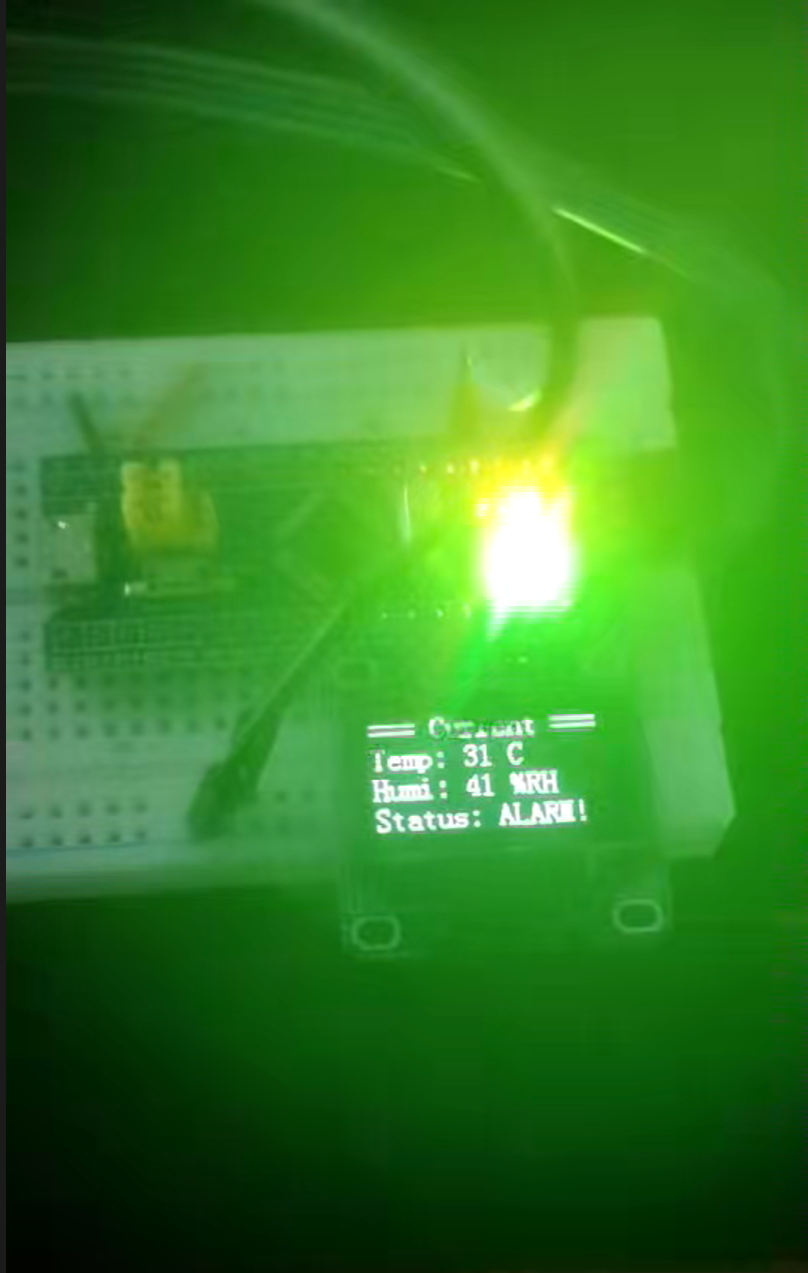
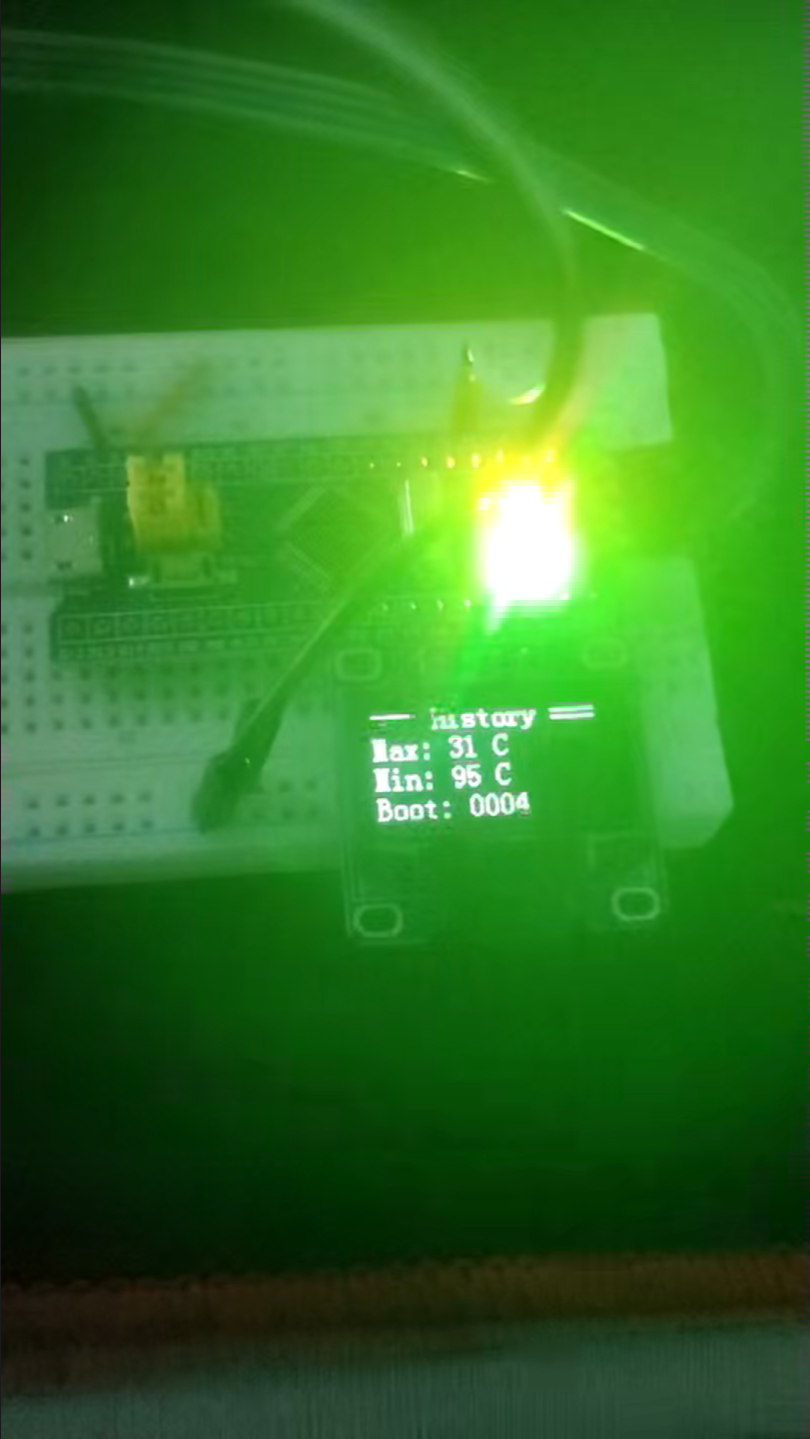
调整截图顺序，同步更新README文档

diff --git a/README.md b/README.md
@@ -1,57 +1,83 @@
-# STM32‑FreeRTOS‑Env‑Monitor
-基于STM32F103C8T6 + FreeRTOS 的嵌入式环境监控终端。
+# 基于 FreeRTOS 的微型环境监控终端
+
+[![License](https://img.shields.io/badge/License-MIT-blue.svg)](LICENSE)
+[![Platform](https://img.shields.io/badge/Platform-STM32F103C8T6-brightgreen)](https://www.st.com/)
+[![RTOS](https://img.shields.io/badge/RTOS-FreeRTOS-orange)](https://www.freertos.org/)
 
 ## 项目简介
-本项目实现DHT11温湿度采集、OLED屏幕多页面轮转显示、阈值报警、参数掉电保存功能。采用FreeRTOS多任务架构，任务之间通过消息队列传递数据，开启栈溢出检测，完成BSP驱动分层，工程目录规范化，使用Git做版本管理。
 
-## 硬件平台
-- MCU：STM32F103C8T6
-- 传感器：DHT11温湿度模块
-- 显示：0.96寸 I2C OLED（SSD1306）
-- 外设：LED报警指示灯
+本项目基于 **STM32F103C8T6** 和 **FreeRTOS**，搭建了 BSP 驱动层、RTOS 内核层和应用逻辑层的三层软件架构。实现了 DHT11 温湿度采集、OLED 三页面自动轮播 UI，并通过 **内部 Flash 模拟 EEPROM** 实现了启动计数和报警阈值的掉电非易失存储。
 
-## 运行效果
-| 历史极值页面 | 当前温湿度页面 | 系统信息页面 |
+##  硬件平台
+
+| 组件 | 型号/规格 |
+| :--- | :--- |
+| MCU | STM32F103C8T6 (Cortex-M3, 72MHz) |
+| 传感器 | DHT11 (单总线协议) |
+| 显示 | 0.96寸 OLED (I2C接口, SSD1306) |
+| 板载 LED | PC13 (低电平点亮) |
+| 调试接口 | SWD (ST-Link) |
+
+## 功能特性
+
+-  **FreeRTOS 多任务调度**：3 个独立任务（传感器采集 / OLED显示 / LED心跳），优先级分级管理
+-  **消息队列 (Queue)**：实现任务间异步数据传递，解耦生产者和消费者
+-  **内部 Flash 模拟 EEPROM**：
+  - 启动计数器（每次上电/复位自动 +1）
+  - 报警阈值断电保存（默认 30℃，可修改）
+-  **OLED 三页面自动轮播**（每 5 秒切换）：
+  - 页面0：当前温湿度 + 报警状态
+  - 页面1：历史最高/最低温度 + Boot 计数
+  - 页面2：FreeRTOS 堆剩余大小 + 当前阈值 + 页码
+-  **超阈值 LED 快闪报警**：温度 > 阈值时 LED 从 1秒慢闪 切换为 200ms 快闪
+-  **栈溢出检测**：开启 `configCHECK_FOR_STACK_OVERFLOW 2`，异常时 LED 常亮提示
+
+## 软件架构
+```text
+STM32-FreeRTOS-Env-Monitor/
+├── BSP/               # 硬件驱动层
+│   ├── bsp_oled.c/.h
+│   ├── bsp_dht11.c/.h
+│   └── bsp_flash.c/.h
+├── User/              # 应用逻辑层
+│   ├── main.c
+│   └── stm32f10x_it.c
+├── FreeRTOS/          # RTOS 内核
+│   ├── include/
+│   ├── src/
+│   ├── port/
+│   └── mem/
+└── System/            # 系统工具层
+    ├── Delay.c/.h
+    └── timer.c/.h
+```
+
+## 运行效果（实拍图）
+| 页面0（当前值） | 页面1（历史极值） | 页面2（系统信息） |
 | :---: | :---: | :---: |
-| ![历史极值](Images/page1.png) | ![当前温湿度](Images/page2.png) | ![系统信息](Images/page3.png) |
+| ![页面0](Images/page1.png) | ![页面1](Images/page2.png) | ![页面2](Images/page3.png) |
+| 实时温度/湿度 + **Status:ALARM!**<br>（展示超阈值报警功能） | 历史最高/最低温 + Boot 计数<br>（展示 Flash 保存的历史极值和开机次数） | FreeRTOS 堆大小 + 阈值 TH + 页码 3/3<br>（展示 RTOS 系统运行参数） |
+## 接线说明
 
-> 功能说明：OLED三页自动循环切换；
-> - 历史极值页：记录最大最小温度、Flash保存的设备启动次数；
-> - 当前温湿度页：实时采集DHT11数据，温度超限显示ALARM报警状态；
-> - 系统信息页：展示FreeRTOS堆内存、报警阈值、页面编号；
-> 片内Flash模拟EEPROM保存启动计数与报警阈值，超阈值触发LED快速闪烁报警。
+| 外设 | 引脚 | 说明 |
+| :--- | :--- | :--- |
+| OLED SCL | PB8 | I2C 时钟线 |
+| OLED SDA | PB9 | I2C 数据线 |
+| DHT11 DATA | PA0 | 单总线数据线 |
+| 板载 LED | PC13 | 低电平点亮 |
+| 调试接口 | SWD (PA13, PA14) | ST-Link 烧录 |
 
-## 主要功能
-1. DHT11周期采集环境温度、湿度数据，做校验容错处理
-2. OLED多页面自动轮转：实时数值、历史最大/最小极值、系统堆栈与启动计数
-3. Flash模拟EEPROM，实现启动计数、报警阈值断电保存
-4. 超阈值触发LED闪烁报警
-5. FreeRTOS消息队列实现多任务解耦通信
-6. 开启任务栈溢出检测，提升系统稳定性
+## 开发环境
 
-## 工程目录
-├── BSP // BSP 底层硬件驱动
-├── system // 系统定时器、底层工具
-├── User // FreeRTOS 任务、业务逻辑
-├── freertos // FreeRTOS 内核源码
-├── Hardware // 外设硬件相关
-├── Library // STM32 标准库
-├── Start // 启动文件
-├── Images // 实物运行效果图
-├── Project.uvprojx // Keil 工程文件
-└── README.md // 项目文档
+| 工具 | 版本 |
+| :--- | :--- |
+| IDE | Keil MDK 5.06 |
+| 编译器 | ARMCC V5.06 update 5 (build 528) |
+| 标准库 | STM32F10x_StdPeriph_Driver V3.5.0 |
+| RTOS | FreeRTOS V9.0.0 |
 
+## 快速开始
 
-## 编译环境
-Keil MDK‑ARM5
-
-## 使用说明
-1. Keil打开`Project.uvprojx`工程
-2. 编译下载到STM32F103C8T6开发板
-3. 上电运行，OLED自动循环切换页面；温度超限LED报警。
-
-<!-- 后续录完视频，把链接替换进来
-## 演示视频
-[B站演示链接](https://xxx)
-演示：复位启动计数累加，手捏DHT11触发超温报警。
--->
+1. **克隆仓库**：
+   ```bash
+   git clone https://github.com/QD25-ct/STM32-FreeRTOS-Env-Monitor.git
